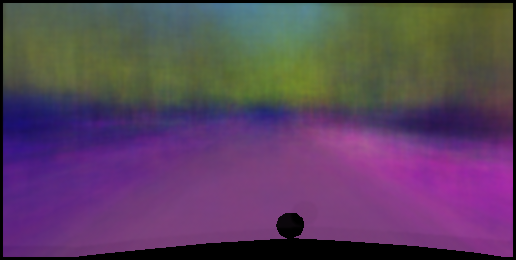
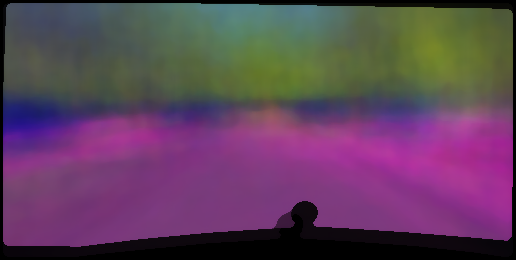
more

diff --git a/generate_map.py b/generate_map.py
@@ -39,7 +39,7 @@ def generate_encoding(avg):
 
 def post_processing(img_name):
     img = cv2.imread(img_name)
-    blur = cv2.bilateralFilter(img, 5, 100, 100)
+    blur = cv2.medianBlur(img, 9)
     cv2.imwrite(img_name, blur)
     return blur
 
